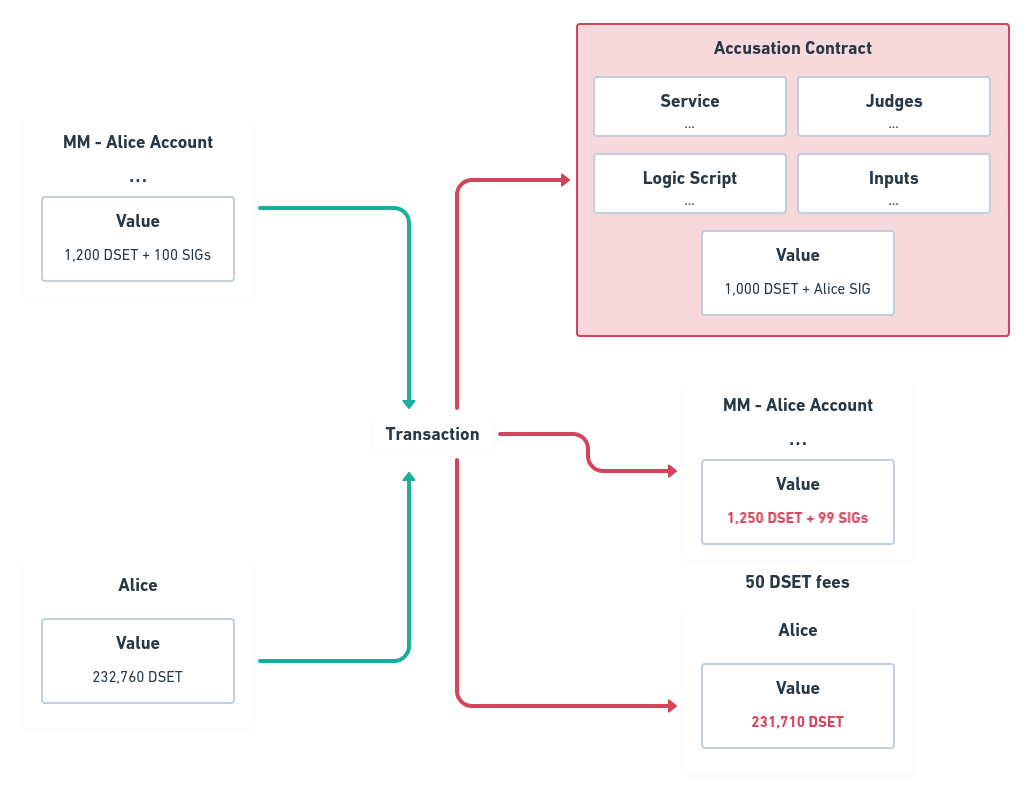
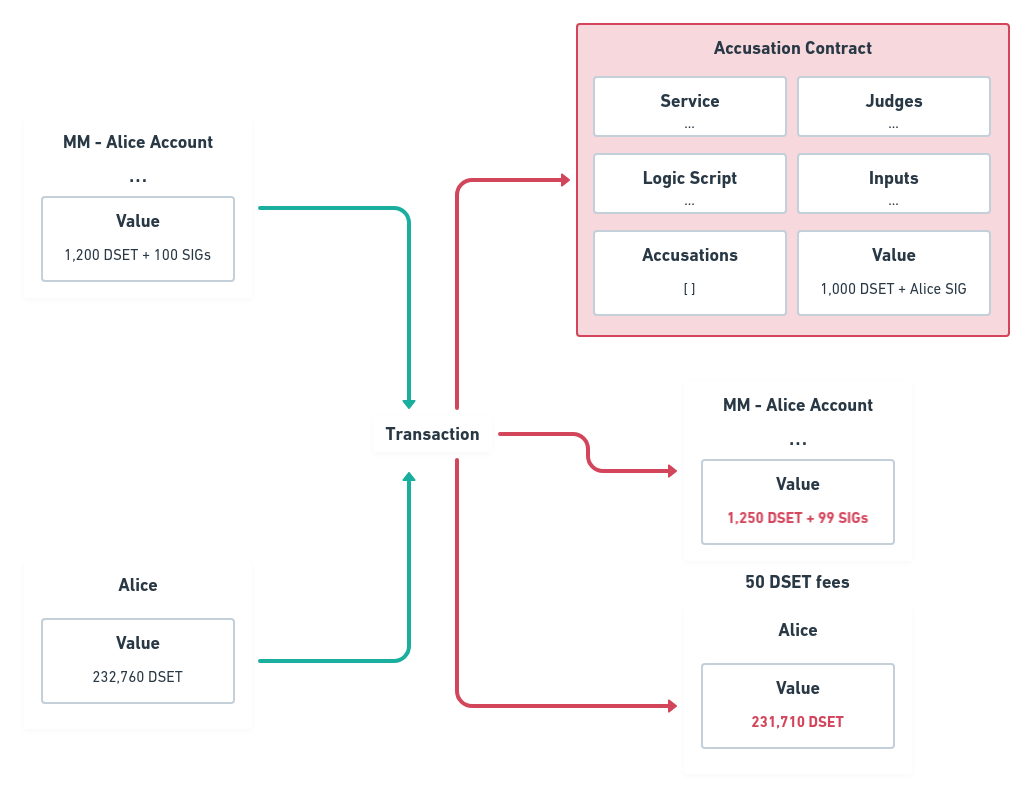
Corrected number of components

Changed region(s): [[0.8054, 0.2707, 0.9603, 0.4211], [0.5576, 0.2707, 0.7125, 0.4211], [0.7125, 0.2707, 0.8054, 0.391]]

diff --git a/README.md b/README.md
@@ -283,7 +283,7 @@ To cover this aspects, services are a data type that hold five parameters:
 * Price: What the client will need to pay in case everything goes well (can be 0 in cases which are not exactly a gig)
 * Trust: The amount of DSET tokens that will be hold to act as a guarantee in case one of the parties does not follow the rules
 
-Finally, the contract is only "officiated" if it receives a SIG token from the service provider. This can be done by consuming the user "account" UTxO provided that the data contains the four essential components.
+Finally, the contract is only "officiated" if it receives a SIG token from the service provider. This can be done by consuming the user "account" UTxO provided that the data contains the five essential components.
 
 ![Contract Creation Example](images/contract-creation.png)
 
